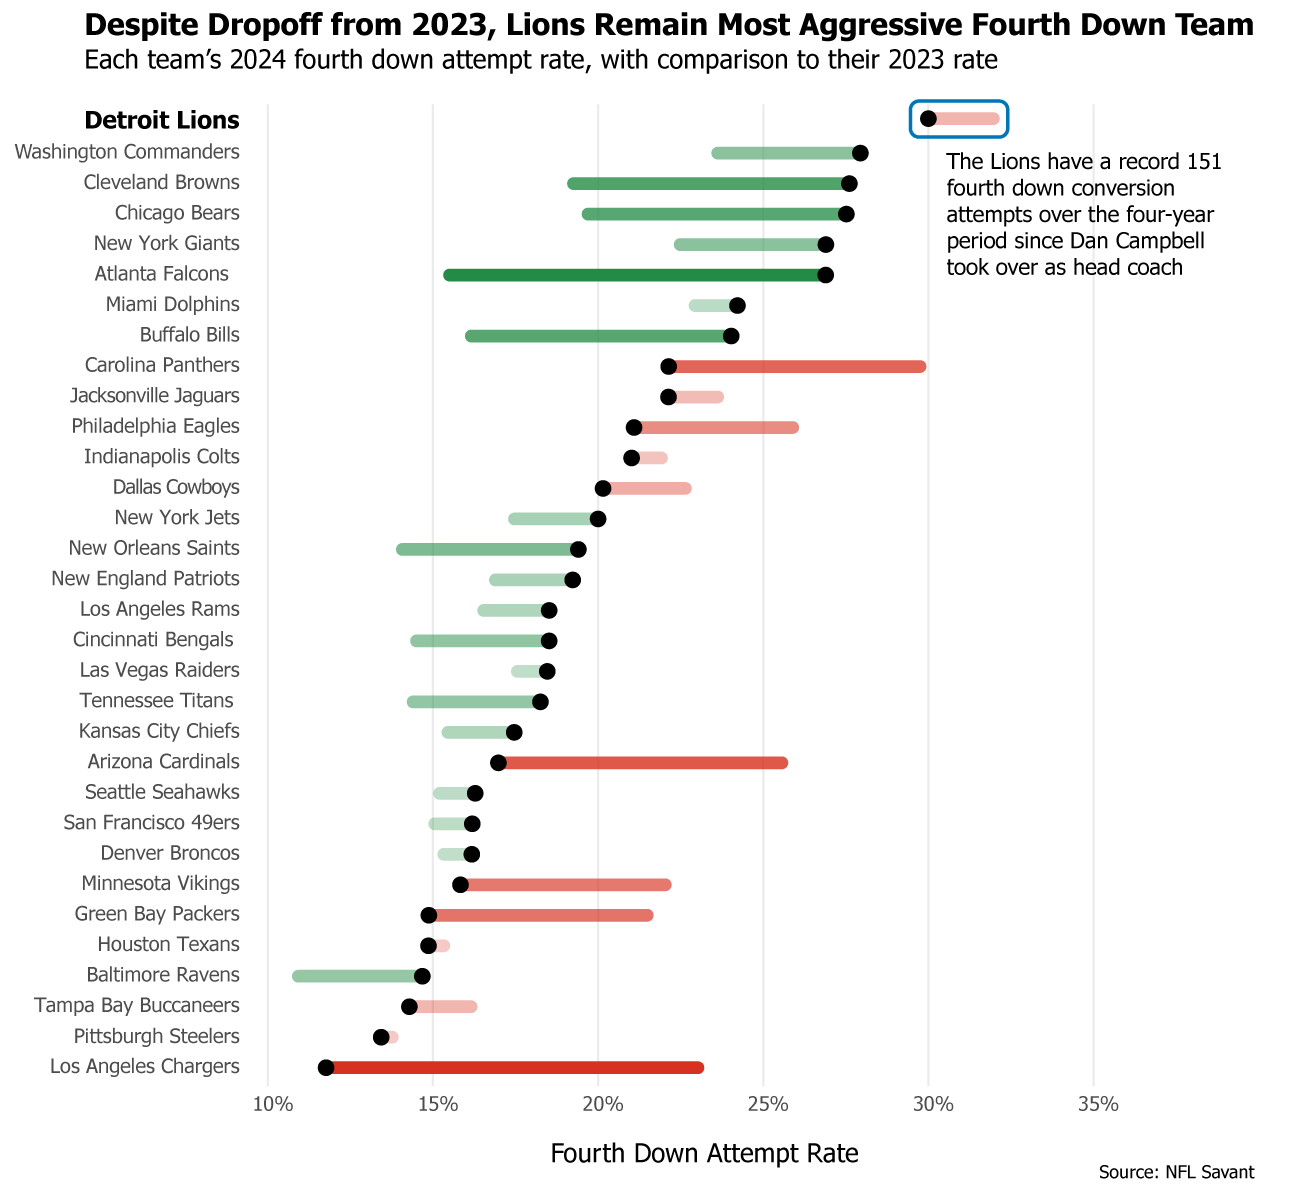
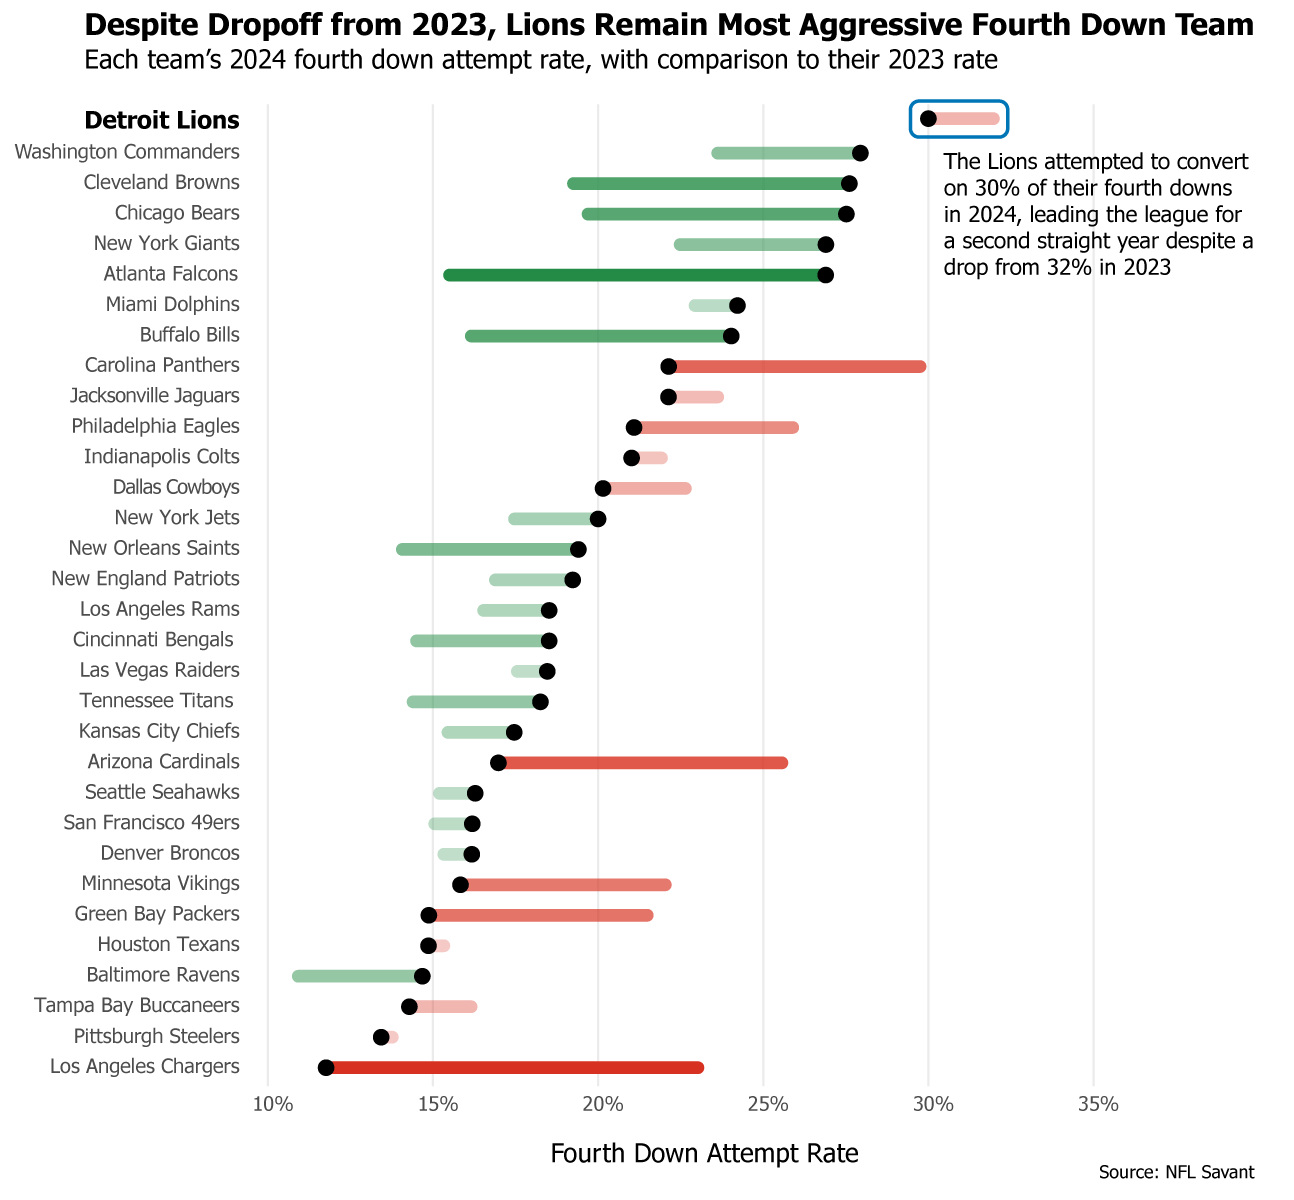
done!

Changed region(s): [[0.711, 0.1233, 0.9583, 0.2467], [0.0618, 0.2158, 0.1855, 0.2467]]

diff --git a/nfl-2024/index.html b/nfl-2024/index.html
@@ -22,61 +22,57 @@
         <div class = "divider"></divclass></div>
         <p>Football. The word alone is enough to make a grown man cry. There's nothing like the excitement of watching your team in a close game, or the despair you feel
             when they inevitably blow it in the most unimaginable way possible. We've all been there but we keep coming back for more. Each season has its ups and downs. 
-            New hope is created and previous hype is destroyed. As we power through the depression and withdrawal that the offseason brings, let us reminisce on the big story lines
+            New hope is created and previous hype is destroyed. As we power through the depression and withdrawal that the offseason brings, let us reminisce on the big storylines
             and trends of the previous season to fill our hearts with joy in this dark time without the game we love. 
         </p>
         <img id = "fourth" src = "images/4th-down-plot-final.png">
-        <p>We all love football and it's clear that Dan Campbell does as well. Since taking over as Lions head coach in 2021, he has had a reputation as a high roller, 
+        <p>We all love football and it's clear that Dan Campbell does as well. Since taking over as the Lions' head coach in 2021, he has had a reputation as a high roller, 
             consistently attempting to extend drives on fourth downs when other coaches would opt to punt or a kick a field goal. In fact, Dan Campbell loves attempting fourth down 
-            conversions so much that even after a decline in the Lions' fourth down conversion attempt rate from 2023 to 2024, the Lions are <i>still</i> at the top of the league in that regard. 
-            They had the highest fourth down attempt rate in 2023 and that trend carried through to last season as well. With the Lions recent success (and the fact that Dan Campbell still has 
-            a pulse), there's little question that the Lions will look to continue their risky play calling antics in 2025. 
+            conversions so much that the Lions have a record 151 fourth down conversion attempts over the four-year period since he became the head coach. With the Lions' recent 
+            success (and the fact that Dan Campbell still has a pulse), there's little question that the Lions will look to continue their risky play calling antics in 2025. 
         </p>
         <img id = "dan" src = "images/dan campbell.jpeg">
         <div class = "divider"></divclass></div>
-        <p>If you've been in a coma for the last half-decade, you might have missed the start of the whole Dan Campbell saga in Detroit and the revival of the Lions. You might also be hoping for a new mix of 
-            Super Bowl contenders and excited to see who the new favorites are after the inevitable fall-off of the Chiefs dynasty. To that I say try waking up in another half-decade because the Chiefs dynasty 
+        <p>If you've been in a coma for the last half-decade, you might have missed the start of the whole Dan Campbell saga in Detroit and the revival of the Lions. That might also make you 
+            excited to see the new favorites to win the Super Bowl after the inevitable fall-off of the Chiefs dynasty. To that, I say try waking up in another half-decade because the Chiefs dynasty 
             is still alive and well. The good news is that they are starting to look at least somewhat beatable:
         </p>
         <img id = "chiefs" src = "images/chiefs-final-chart.png">
-        <p>For all the Chiefs fans out there, here are a couple facts to give you hope:</p>
+        <p>For all the Chiefs fans out there, here are a couple facts to make you feel better:</p>
         <ol>
-            <li>Since Mahomes became the starter, the Chiefs have made it to the Super Bowl or AFC Championship game every year, with 3 of those years ending with a Super Bowl victory</li>
+            <li>Since Mahomes became the starter, the Chiefs have made it to the Super Bowl or AFC Championship every year, with 3 of those years resulting in a Super Bowl victory</li>
             <li>The Chiefs are coming off a franchise-record 15 win season</li>
         </ol> 
-        <p>Now for the rest of us, here are another couple things to keep in mind:</p>
+        <p>Now for the rest of us, here are a couple more things to keep in mind:</p>
         <ol>
             <li>Most of the Chiefs' 15 wins this past season came from black-magic voodoo late in the fourth quarter</li>
             <li>Patrick Mahomes' voice still very much sounds like Kermit the Frog (not a diss at Kermit, it's just entertaining)</li>
         </ol>
-        <p>In all seriousness, what the Chiefs have done over the last decade has been nothing short of remarkable. Even in what felt like a "down" year the Chiefs were still able 
+        <p>In all seriousness, what the Chiefs have done over the last decade has been nothing short of remarkable. Even in what felt like a down year the Chiefs were still able 
             to reach the Super Bowl and somehow sneak 15 wins out of the regular season through their late game heroics (and a healthy dose of luck and favorable calls). While their record and 
-            season outcomes suggest that they will continue to be Super Bowl favorites for many years to come, this past season has some thinking that it's only a matter of time before the luck runs out.
+            season outcomes suggest that they will continue to be Super Bowl favorites for many years to come, this past season has some thinking that it's only a matter of time before the magic runs out.
         </p>
         <img id = "kermit" src= "images/kermit mahomes.jpg">
         <div class = "divider"></divclass></div>
         <p>Building on the theme of new developments on old trends, no storyline from 2024 is more fitting than that of Saquon Barkley. We always knew he was good at football, but this past year showed that 
-            Saquon is <i>really</i> good at football. Perhaps it was the change of scenery (but more likely the upgraded offensive line play) that vaulted Saquon's status to be one of the most elite running 
+            Saquon is <i>really</i> good at football. Perhaps it was the change of scenery (but more likely the upgraded offensive line play) that vaulted Saquon's status to one of the most elite running 
             backs in the league.
         </p>
         <img id = "saquon-chart" src = "images/saquon-final-chart.png">
         <p>Look away Giants fans. Saquon not only had a career year in his first season away from the G-Men, he had a <i>historic</i> year. Had the Eagles not rested him in the last week of the season,
-        he would have had the chance to break Eric Dickerson's single season rushing record for the regular season. </p>
+        he would have had the chance to break Eric Dickerson's single-season rushing record for the regular season. </p>
 
-        <p>There aren't many people on our beloved planet that are capable of jumping backwards over a 6 foot 200 pound man trying to knock the living daylight out of you, then proceed to rush for over 2000 yards in a season. 
+        <p>There aren't many people on our beloved planet that are capable of jumping backwards over a 6 foot 200 pound man trying to knock the living daylight out of you. 
             Thankfully for us, Saquon Barkley is indeed one of those people. Was this just an outlier of a season or have the Eagles really unlocked a new potential for Saquon? T-minus four months until we find out.
         </p>
         <img  id = "saquon" src = "images/saquon hurdle.gif">
         <div class = "divider"></divclass></div>
         <h2>About This Page</h2>
         <p>This website was made as part of a final project for a data visualization course at Brown University, taught by <a href = "https://www.reubenfb.com/"> Reuben Fischer-Baum</a>.
-            Massive thank you to Reuben for an incredible and informative course. Please go check out his work, it is all amazing!
+            Massive thank you to Reuben for an incredible and informative course. Please go check out his work — it is all amazing!
         </p>
 
         <p>Data were collected from <a href=" https://nflsavant.com/about.php"> NFL Savant</a> as well as <a href="https://www.pro-football-reference.com/"> Pro Football Reference</a>.
         All visualizations were created using R and Adobe Illustrator.</p>
-        <!-- <h2>Chicken</h2>
-        <p>Here's a <a href="https://www.profootballreference.com/"> link</a></p>
-        <img id = "food" src = "images/gyro.jpg"> --> -->
     </body>
 </html>

diff --git a/nfl-2024/styles.css b/nfl-2024/styles.css
@@ -1,6 +1,6 @@
 img, p, h1, h2, .divider, ol {
     width: 100%;
-    max-width: 700px;
+    max-width: 900px;
     margin-left: auto;
     margin-right: auto;
 }
@@ -15,7 +15,7 @@ img {
 }
 
 p {
-    font-size: 16px;
+    font-size: 18px;
     line-height: 1.4;
     font-family: "Liter";
 }
@@ -40,7 +40,7 @@ h1, h2, ol {
 .name-tag {
     font-family: "Liter";
     line-height: 0.8;
-    font-size: 18px;
+    font-size: 21px;
 }
 
 #sig {
@@ -58,10 +58,9 @@ h1, h2, ol {
     max-height: 250px;
 }
 
-#saquon-chart {
-    max-width: 900px;
-    max-height: 600px;
-}
+/* #saquon-chart {
+    max-height: 800px;
+} */
 
 #saquon {
     max-width: 400px;
